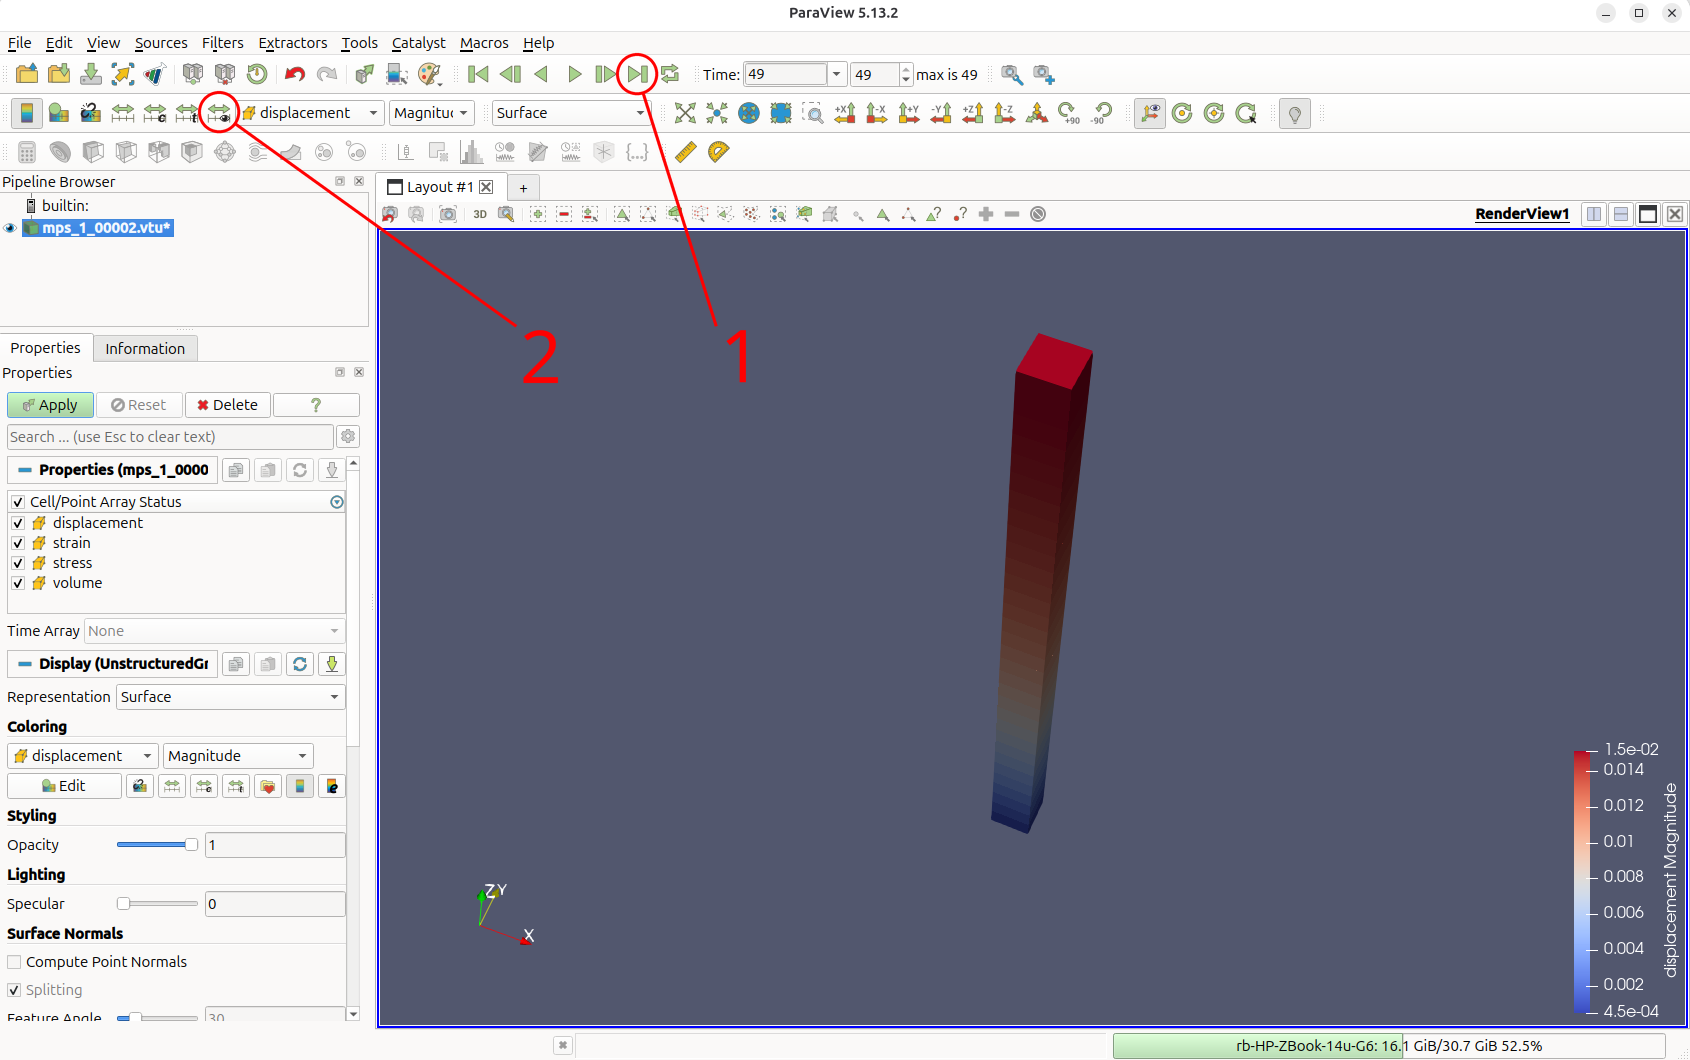
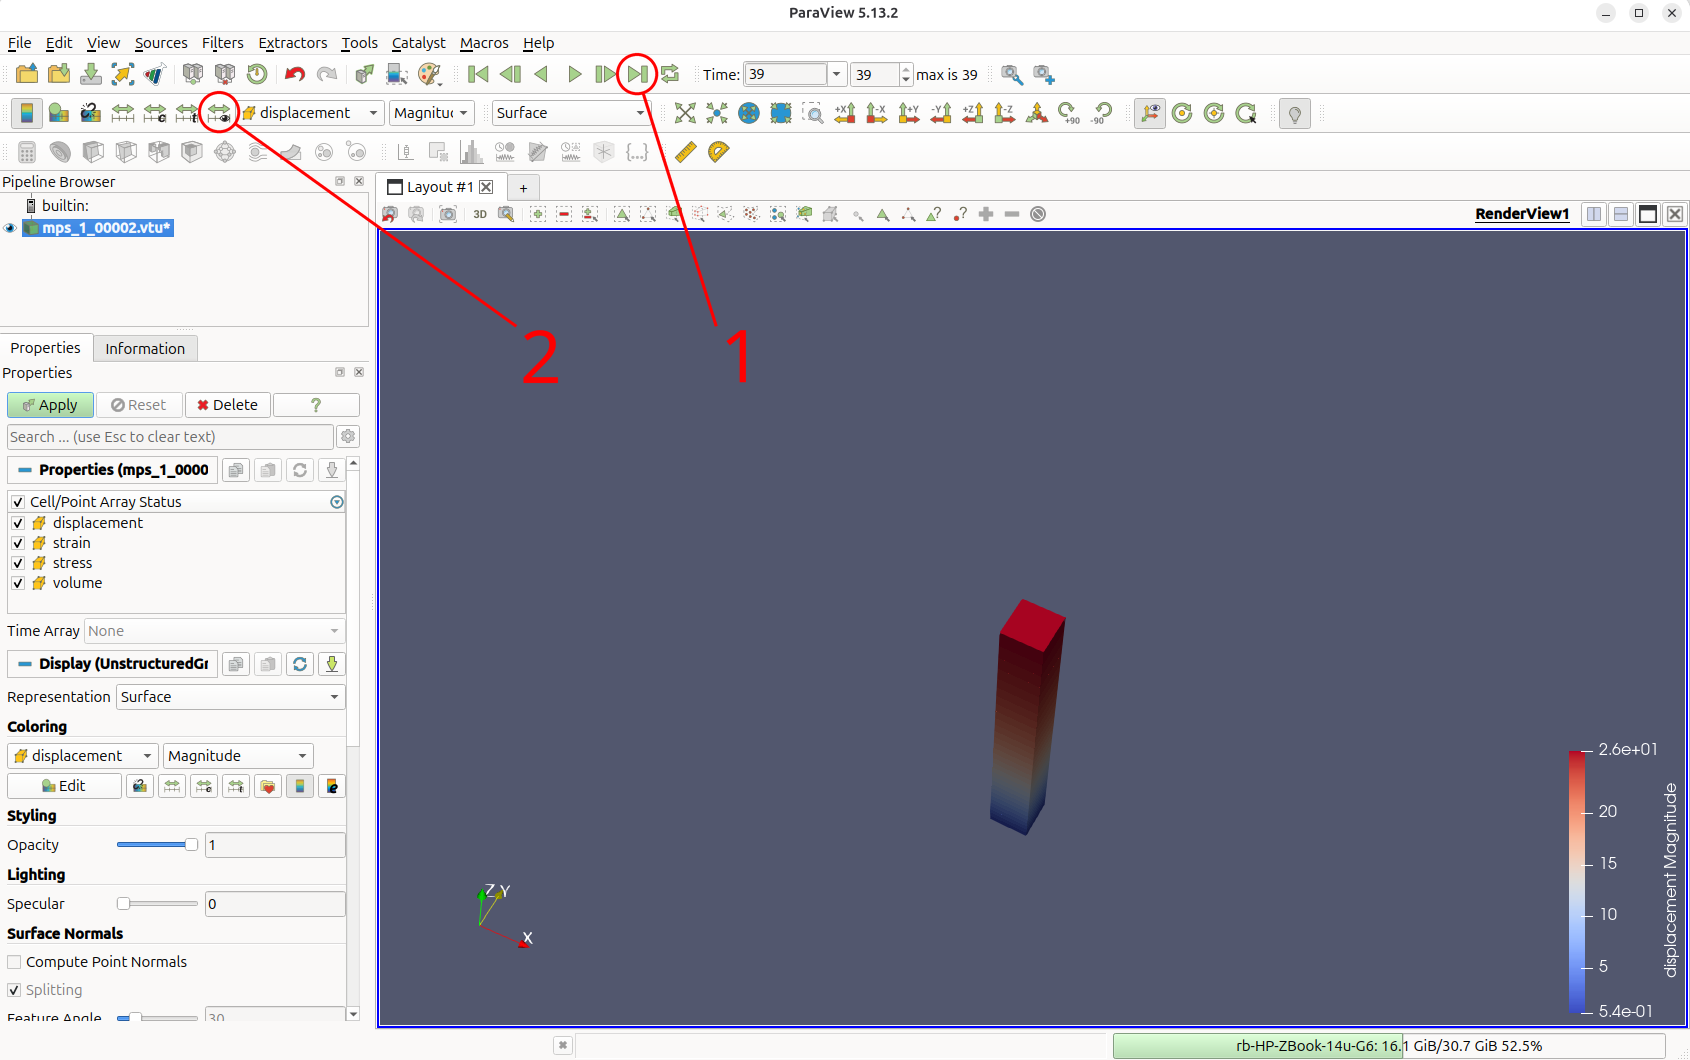
updates to tutorial 1

diff --git a/docs/javascripts/input_builder_templates.js b/docs/javascripts/input_builder_templates.js
@@ -10,12 +10,12 @@ window.MPM3S_TEMPLATES = [
     "gravity": [
      0.0,
      0.0,
-     -9.81
+     -10.0
     ]
    },
    "material points": {
     "extra capacity": 1.2,
-    "element size": 0.05,
+    "element size": 3.125,
     "number of material points per element 1": 2,
     "material size": {
      "min": [
@@ -23,18 +23,18 @@ window.MPM3S_TEMPLATES = [
       0.0
      ],
      "max": [
-      0.05,
-      0.05
+      3.125,
+      3.125
      ]
     },
     "layers": [
      {
-      "thickness": 0.8,
+      "thickness": 50.0,
       "material": {
        "type": "elastic",
        "E": 1.0e4,
        "nu": 0.0,
-       "density": 50.0
+       "density": 80.0
       }
      }
     ]
@@ -46,7 +46,7 @@ window.MPM3S_TEMPLATES = [
    "analysis": [
     {
      "type": "static",
-     "load steps": 50,
+     "load steps": 40,
      "load": "gravity ramp",
      "rigid bodies": "off",
      "boundary conditions": {

diff --git a/docs/img/Tutorial_1/column_setup.tex b/docs/img/Tutorial_1/column_setup.tex
@@ -1,6 +1,6 @@
 % Self-weight column (Tutorial 1): background mesh and GIMP domains, in the
-% style of GIMP_example2.png. The column is 0.05 x 0.05 x 0.8 m: 16 elements of
-% size h = 0.05 m, each holding a 2 x 2 x 2 grid of GIMPs. Only the bottom two
+% style of GIMP_example2.png. The column is 3.125 x 3.125 x 50 m: 16 elements of
+% size h = 3.125 m, each holding a 2 x 2 x 2 grid of GIMPs. Only the bottom two
 % elements and the top element are drawn; the dots between them stand for the
 % 13 elements left out.
 % Build: pdflatex column_setup.tex
@@ -65,7 +65,7 @@
   \draw[dimline, {Latex[length=5pt]}-] (-0.4,0,0) -- (-0.4,0,2.1);
   \draw[dimline, -{Latex[length=5pt]}] (-0.4,0,3.1) -- (-0.4,0,\ztop);
   \gapdots{dimpurple}{-0.4}{0}
-  \node[left=3pt, font=\sffamily] at (-0.4,0,2.6) {0.8 m};
+  \node[left=3pt, font=\sffamily] at (-0.4,0,2.6) {50 m};
   \draw[dim] (0,0,-0.35) -- node[below=1pt] {$h$} (1,0,-0.35);}
 % the support: the visible faces of the elements drawn
 \newcommand{\supportblock}[2]{%

diff --git a/docs/docs/TutorialProblems/Tutorial_1.md b/docs/docs/TutorialProblems/Tutorial_1.md
@@ -44,13 +44,13 @@ $$
 \sigma_{zz} = -\rho\, g\, (L - z_p),
 $$
 
-where $\rho$ is the density, $g = 9.81$ m/s$^2$ is the acceleration due to gravity, $L = 0.8$ m is the initial height of the column and $z_p$ is the initial height of the material point. Stress is tension positive, so the column is in compression. Because Poisson's ratio is zero and the sides of the column are on rollers, the cross-section does not change and this Cauchy stress calculation is true for any magnitude of deformation.
+where $\rho$ is the density, $g = 10$ m/s$^2$ is the acceleration due to gravity, $L = 50$ m is the initial height of the column and $z_p$ is the initial height of the material point. Stress is tension positive, so the column is in compression. Because Poisson's ratio is zero and the sides of the column are on rollers, the cross-section does not change and this Cauchy stress calculation is true for any magnitude of deformation.
 
-The column is $0.05 \times 0.05 \times 0.8$ m, made of a homogeneous Hencky elastic material with Poisson's ratio $\nu = 0$ and density $\rho = 50$ kg/m$^3$. The Young's modulus is $E = 10^4$ Pa, which gives a reasonable deformation.
+The column is $3.125 \times 3.125 \times 50$ m, made of a homogeneous Hencky elastic material with Poisson's ratio $\nu = 0$ and density $\rho = 80$ kg/m$^3$. The Young's modulus is $E = 10^4$ Pa, which gives a large deformation: the column shortens to under half its height. These are the height, material and gravity of the column example in [AMPLE](https://github.com/wmcoombs/AMPLE-m).
 
-The column is divided into 16 elements of $0.05$ m, each filled with a $2 \times 2 \times 2$ grid of GIMPs - 128 in total. Gravity is applied gradually over 50 load steps, each solved by a Newton-Raphson scheme.
+The column is divided into 16 elements of $3.125$ m, each filled with a $2 \times 2 \times 2$ grid of GIMPs - 128 in total. Gravity is applied gradually over 40 load steps, each solved by a Newton-Raphson scheme.
 
-![The bottom two elements and the top element of the column; the dots stand for the 13 elements in between. (a) The background mesh, with element size $h = 0.05$ m, and (b) the $2 \times 2 \times 2$ grid of GIMP domains in each element.](../../img/Tutorial_1/column_setup.png){ #fig-column-setup width="50%" }
+![The bottom two elements and the top element of the column; the dots stand for the 13 elements in between. (a) The background mesh, with element size $h = 3.125$ m, and (b) the $2 \times 2 \times 2$ grid of GIMP domains in each element.](../../img/Tutorial_1/column_setup.png){ #fig-column-setup width="50%" }
 
 The simulation is configured through a single JSON object - a human-readable, editable text file. The complete file for this problem can be found [here](Tutorial_1_input_data.md), and every key is described on the [`input_data.json` file format](../UsingTheSoftware/InputFormat/index.md) page.
 
@@ -89,7 +89,7 @@ The simulation is configured through a single JSON object - a human-readable, ed
 
 ### Domain
 
-- The background mesh is a cube, sized automatically to hold the column plus the same height of empty space above it: here a cube of side $1.6$ m ([domain](../UsingTheSoftware/InputFormat/domain.md)).
+- The background mesh is a cube, sized automatically to hold the column plus the same height of empty space above it: here a cube of side $100$ m ([domain](../UsingTheSoftware/InputFormat/domain.md)).
 - Gravity acts in $-z$.
 
 </div>
@@ -98,7 +98,7 @@ The simulation is configured through a single JSON object - a human-readable, ed
 
 ```json
 "domain": {
-    "gravity": [0.0, 0.0, -9.81]
+    "gravity": [0.0, 0.0, -10.0]
 },
 ```
 
@@ -112,8 +112,8 @@ The simulation is configured through a single JSON object - a human-readable, ed
 
 ### Material points
 
-- One layer, $0.8$ m thick, on a $0.05 \times 0.05$ m footprint ([material points](../UsingTheSoftware/InputFormat/material_points.md)).
-- `"element size"` sets the background elements to $0.05$ m.
+- One layer, $50$ m thick, on a $3.125 \times 3.125$ m footprint ([material points](../UsingTheSoftware/InputFormat/material_points.md)).
+- `"element size"` sets the background elements to $3.125$ m.
 - `"number of material points per element 1": 2` places a $2 \times 2 \times 2$ grid of GIMPs in each element.
 - The material is the Hencky elastic model, with the parameters from the [Problem summary](#problem-summary).
 - `"extra capacity"` reserves spare storage for material points created by mesh refinement; there is no refinement here, but the key is still required.
@@ -125,13 +125,13 @@ The simulation is configured through a single JSON object - a human-readable, ed
 ```json
 "material points": {
     "extra capacity": 1.2,
-    "element size": 0.05,
+    "element size": 3.125,
     "number of material points per element 1": 2,
-    "material size": { "min": [0.0, 0.0], "max": [0.05, 0.05] },
+    "material size": { "min": [0.0, 0.0], "max": [3.125, 3.125] },
     "layers": [
         {
-            "thickness": 0.8,
-            "material": { "type": "elastic", "E": 1.0e4, "nu": 0.0, "density": 50.0 }
+            "thickness": 50.0,
+            "material": { "type": "elastic", "E": 1.0e4, "nu": 0.0, "density": 80.0 }
         }
     ]
 },
@@ -173,7 +173,7 @@ The simulation is configured through a single JSON object - a human-readable, ed
 ### Analysis
 
 - A single static stage ([analysis stages](../UsingTheSoftware/InputFormat/analysis.md)).
-- `"load": "gravity ramp"` increases gravity from zero to its full value over the 50 load steps.
+- `"load": "gravity ramp"` increases gravity from zero to its full value over the 40 load steps.
 - `"rigid bodies": "off"`, as there are none.
 - Rollers on the four sides ($x$ and $y$ `"min"` and `"max"`) and a fixed base ([boundary conditions](../UsingTheSoftware/InputFormat/analysis.md#boundary-conditions)).
 - The top is left free; the `"max"` $z$ face lies at twice the column height, in the empty space above the column, so it never touches the material.
@@ -186,7 +186,7 @@ The simulation is configured through a single JSON object - a human-readable, ed
 "analysis": [
     {
         "type": "static",
-        "load steps": 50,
+        "load steps": 40,
         "load": "gravity ramp",
         "rigid bodies": "off",
         "boundary conditions": { "min": ["roller", "roller", "fixed"], "max": ["roller", "roller", "free"] }
@@ -339,7 +339,7 @@ Julia is now running in the `MPM3S` folder and MPM3S loaded. The JSON file for t
 ```
 MPM3S.non_linear_solve("validation_data_and_jsons/input_data_gravity_column.json");
 ```
-This reads the input file, steps through the 50 load steps and writes the VTK and CSV output as it goes.
+This reads the input file, steps through the 40 load steps and writes the VTK and CSV output as it goes.
 
 #### Reading the output
 
@@ -348,12 +348,12 @@ MPM3S prints a single progress line, redrawn in place after every step; in a log
 - `stage 1/1` - the current stage and the number of stages.
 - the bar and `100.0%` - progress through the stage.
 - `t 1.0/1.0` - the load fraction reached in a static stage (or the time in a dynamic stage), out of its final value.
-- `step 51` - the step counter. It starts at 1 and counts every converged step of the analysis; it is also the number in the output file names.
-- `Δt 0.02` - the current increment, here $1/50$ of the load.
+- `step 41` - the step counter. It starts at 1 and counts every converged step of the analysis; it is also the number in the output file names.
+- `Δt 0.025` - the current increment, here $1/40$ of the load.
 - `NR 3` - the Newton-Raphson iterations used by the last step.
 - `cuts 0` - steps that did not converge and were retried with half the increment.
 - `del 0` - material points deleted because they became too distorted or isolated.
-- `N 299` - the number of nodes in the background mesh.
+- `N 201` - the number of nodes in the background mesh.
 
 In dynamic analyses a `P2G-fail` count is added if a velocity projection fails to converge.
 
@@ -365,7 +365,7 @@ In dynamic analyses a `P2G-fail` count is added if a velocity projection fails t
 
 ```console
 julia> MPM3S.non_linear_solve("validation_data_and_jsons/input_data_gravity_column.json");
-stage 1/1 ████████████ 100.0% t 1.0/1.0 step 51 Δt 0.02 NR 3 cuts 0 del 0 N 299
+stage 1/1 ████████████ 100.0% t 1.0/1.0 step 41 Δt 0.025 NR 3 cuts 0 del 0 N 201
 ```
 
 </div>
@@ -376,7 +376,7 @@ stage 1/1 ████████████ 100.0% t 1.0/1.0 step 51 Δt 0.02
 
 ## Viewing the results
 
-The results are written as the simulation runs, so you do not need to wait until it has finished to view them. The VTK files are in `vtk_column` and the CSV files in `csv_column`, one file per load step, numbered from `00002` to `00051`. The `1` in `mps_1_...` is the layer number.
+The results are written as the simulation runs, so you do not need to wait until it has finished to view them. The VTK files are in `vtk_column` and the CSV files in `csv_column`, one file per load step, numbered from `00002` to `00041`. The `1` in `mps_1_...` is the layer number.
 
 ### Visualising the output in ParaView
 
@@ -428,7 +428,7 @@ The output files can be opened in [ParaView](https://www.paraview.org/) to inspe
 
 <div class="walkthrough" markdown>
 <div markdown>
-**5. Advance to the final step.** Click the *Go to Last* button (`▶|`) (1) in the time toolbar, then *Rescale to Visible Range* (2) in the colour-map toolbar so the colour scale matches the deformed column. The column has shortened from $0.8$ m to about $0.785$ m, so the top has moved down by about $0.015$ m.
+**5. Advance to the final step.** Click the *Go to Last* button (`▶|`) (1) in the time toolbar, then *Rescale to Visible Range* (2) in the colour-map toolbar so the colour scale matches the deformed column. The column has shortened from $50$ m to about $24$ m, so the top has moved down by about $26$ m.
 </div>
 <div markdown>
 ![The deformed column at the final load step, coloured by displacement.](../../img/Tutorial_1/column_v2_1.png){ #fig-paraview-5 }
@@ -446,7 +446,7 @@ The output files can be opened in [ParaView](https://www.paraview.org/) to inspe
 
 <div class="walkthrough" markdown>
 <div markdown>
-**7. Look at the GIMP domains.** Change the *Representation* to *Surface With Edges* (1) and zoom in on the base and the top of the column. With `"domain update": "stretch"` the GIMPs near the base are squashed by about $4\%$ of their original height, while those near the top are barely deformed.
+**7. Look at the GIMP domains.** Change the *Representation* to *Surface With Edges* (1) and zoom in on the base and the top of the column. With `"domain update": "stretch"` the GIMPs near the base are squashed to about $30\%$ of their original height, while those near the top have shortened by only about $6\%$.
 </div>
 <div markdown>
 ![The column drawn with Surface With Edges, coloured by vertical stress.](../../img/Tutorial_1/column_v2_3.png){ #fig-paraview-7 }
@@ -455,21 +455,21 @@ The output files can be opened in [ParaView](https://www.paraview.org/) to inspe
 
 ## Analysing the stress variation with height
 
-`csv_column` holds one CSV file per load step. The first line of each file is the load fraction, `time`, and the second line holds the column headers; after that there is one row per GIMP. The final step, `mps_1_00051.csv`, starts:
+`csv_column` holds one CSV file per load step. The first line of each file is the load fraction, `time`, and the second line holds the column headers; after that there is one row per GIMP. The final step, `mps_1_00041.csv`, starts:
 
 ```text
 time,1.0000000000000004
 initial position_x,initial position_y,initial position_z,position_x,position_y,position_z,stress_xx,stress_yy,stress_zz,stress_xy,stress_yz,stress_xz
-0.0125,0.0125,0.0125,0.0125,0.0125,0.012049772208144434,0.0,0.0,-380.53508196098755,0.0,0.0,0.0
-0.0125,0.0125,0.037500000000000006,0.0125,0.0125,0.03614931662443334,0.0,0.0,-380.53508196098755,0.0,0.0,0.0
-0.0125,0.0125,0.0625,0.0125,0.0125,0.06027504228355748,0.0,0.0,-356.3835934261951,0.0,0.0,0.0
+0.78125,0.78125,0.78125,0.78125,0.78125,0.2403573773453606,0.0,0.0,-38314.3115766303,0.0,0.0,0.0
+0.78125,0.78125,2.34375,0.78125,0.78125,0.7210721320360816,0.0,0.0,-38314.311576630294,0.0,0.0,0.0
+0.78125,0.78125,3.90625,0.78125,0.78125,1.204539179340215,-1.777267913332324e-12,-1.777267913332324e-12,-37256.332724039145,-0.0,-0.0,-0.0
 --- many more rows of data ---
 ```
 
 `initial position_z` is $z_p$ in the analytical solution, `position_z` is the GIMP's current height, and `stress_zz` is the vertical Cauchy stress in Pa.
 
 !!! note "Floating-point spellings in the raw CSV"
-    Values such as `1.0000000000000004` and `0.037500000000000006` are the exact binary representations Julia stores for `1.0` and `0.0375`, and the trailing digits of the stresses are floating-point noise.
+    Values such as `1.0000000000000004` are the exact binary representation Julia stores for `1.0`, the trailing digits of the stresses are floating-point noise, and horizontal stresses such as `-1.777267913332324e-12` are zero to round-off.
 
 The short Julia script below plots the stresses from the final step against the analytical solution from the [Problem summary](#problem-summary). You can run it in the same Julia session straight after the analysis, either by copying it into the REPL or by saving it as `plot_stress.jl` in the `MPM3S` folder and running `include("plot_stress.jl")`. It needs [Plots](https://docs.juliaplots.org/); `DelimitedFiles` comes with Julia.
 
@@ -485,13 +485,13 @@ The commands to run the plot are:
 using DelimitedFiles, Plots
 
 # the final output step of the column; skip the "time" line, then read the header
-data, header = readdlm("csv_column/mps_1_00051.csv", ',', Float64; skipstart=1, header=true)
+data, header = readdlm("csv_column/mps_1_00041.csv", ',', Float64; skipstart=1, header=true)
 column(name) = data[:, findfirst(==(name), vec(header))]
 z0  = column("initial position_z")
 szz = column("stress_zz")
 
 # analytical vertical stress
-ρ, g, L = 50.0, 9.81, 0.8
+ρ, g, L = 80.0, 10.0, 50.0
 σ(z) = -ρ * g * (L - z)
 z = range(0.0, L, length=100)
 
@@ -501,6 +501,6 @@ plot!(-σ.(z), z, label="analytical")
 
 ![Vertical compressive stress at the GIMPs after the final load step, plotted against their initial height, compared with the analytical solution.](../../img/Tutorial_1/column_analytical_stress.png){ #fig-column-stress width="40%" }
 
-The numerical stresses agree with the analytical solution to within 2% of the stress at the base ($392.4$ Pa). The two GIMPs in each element fall either side of the analytical line, and the differences are largest near the base. 
+The numerical stresses agree with the analytical solution to within 3% of the stress at the base ($40$ kPa). The differences are largest in the bottom element, where the column is most compressed, and in the top element.
 
-To see how the accuracy depends on the mesh, halve `"element size"` in [Material points](#material-points) to `0.025` and run the problem again.
+To see how the accuracy depends on the mesh, halve `"element size"` in [Material points](#material-points) to `1.5625` and run the problem again.

diff --git a/docs/docs/TutorialProblems/Tutorial_1_input_data.md b/docs/docs/TutorialProblems/Tutorial_1_input_data.md
@@ -9,18 +9,18 @@ The complete `input_data_gravity_column.json` for [Tutorial 1](Tutorial_1.md), a
     "domain update": "stretch", // (2)!
 
     "domain": { // (3)!
-        "gravity": [0.0, 0.0, -9.81]
+        "gravity": [0.0, 0.0, -10.0]
     },
 
     "material points": { // (4)!
         "extra capacity": 1.2,
-        "element size": 0.05,
+        "element size": 3.125,
         "number of material points per element 1": 2,
-        "material size": { "min": [0.0, 0.0], "max": [0.05, 0.05] },
+        "material size": { "min": [0.0, 0.0], "max": [3.125, 3.125] },
         "layers": [
             {
-                "thickness": 0.8,
-                "material": { "type": "elastic", "E": 1.0e4, "nu": 0.0, "density": 50.0 }
+                "thickness": 50.0,
+                "material": { "type": "elastic", "E": 1.0e4, "nu": 0.0, "density": 80.0 }
             }
         ]
     },
@@ -34,7 +34,7 @@ The complete `input_data_gravity_column.json` for [Tutorial 1](Tutorial_1.md), a
     "analysis": [ // (7)!
         {
             "type": "static",
-            "load steps": 50,
+            "load steps": 40,
             "load": "gravity ramp",
             "rigid bodies": "off",
             "boundary conditions": { "min": ["roller", "roller", "fixed"], "max": ["roller", "roller", "free"] }
@@ -67,9 +67,9 @@ The complete `input_data_gravity_column.json` for [Tutorial 1](Tutorial_1.md), a
 1.  Runs on the CPU, which is plenty for a problem this small. [Machine →](Tutorial_1.md#machine) · [GPU →](../UsingTheSoftware/InputFormat/gpu.md)
 2.  Lets the GIMP domains near the base shrink as the column is compressed. [Machine →](Tutorial_1.md#machine) · [Domain update →](../UsingTheSoftware/InputFormat/material_points.md#domain-update)
 3.  Gravity in $-z$; the background mesh is sized automatically to hold the column. [Domain →](Tutorial_1.md#domain) · [Domain →](../UsingTheSoftware/InputFormat/domain.md)
-4.  One $0.8$ m elastic layer on a $0.05 \times 0.05$ m footprint: $0.05$ m elements, each with $2 \times 2 \times 2$ GIMPs. [Material points →](Tutorial_1.md#material-points) · [Material points →](../UsingTheSoftware/InputFormat/material_points.md)
+4.  One $50$ m elastic layer on a $3.125 \times 3.125$ m footprint: $3.125$ m elements, each with $2 \times 2 \times 2$ GIMPs. [Material points →](Tutorial_1.md#material-points) · [Material points →](../UsingTheSoftware/InputFormat/material_points.md)
 5.  There are no rigid bodies. [Rigid bodies and contact →](Tutorial_1.md#rigid-bodies-and-contact) · [Rigid bodies →](../UsingTheSoftware/InputFormat/rigid_bodies.md)
 6.  Required even with no bodies; it has no effect here. [Rigid bodies and contact →](Tutorial_1.md#rigid-bodies-and-contact) · [Contact →](../UsingTheSoftware/InputFormat/contact.md)
-7.  One static stage: gravity ramped up over 50 load steps, rollers on the sides, a fixed base and a free top. [Analysis →](Tutorial_1.md#analysis) · [Analysis stages →](../UsingTheSoftware/InputFormat/analysis.md)
+7.  One static stage: gravity ramped up over 40 load steps, rollers on the sides, a fixed base and a free top. [Analysis →](Tutorial_1.md#analysis) · [Analysis stages →](../UsingTheSoftware/InputFormat/analysis.md)
 8.  Tolerance $10^{-6}$ and 20 iterations; ghost stabilisation is off, as the column fills its elements. [Solver →](Tutorial_1.md#solver) · [Solver →](../UsingTheSoftware/InputFormat/solver.md)
 9.  VTK and CSV files at every load step. [Output →](Tutorial_1.md#output) · [Output →](../UsingTheSoftware/InputFormat/output.md)

diff --git a/docs/docs/UsingTheSoftware/InputFormat/domain.md b/docs/docs/UsingTheSoftware/InputFormat/domain.md
@@ -25,7 +25,7 @@ The background mesh is sized automatically from the [material points](material_p
 - The **domain box** is where the boundary conditions act. It spans the soil's footprint in $x$ and $y$ (`"material size"` `"max"`) and **twice the total layer thickness in $z$**, each rounded up to whole base elements.
 - The soil fills the bottom half of the box. Its surface is the total layer thickness rounded up to a whole row of material points (base element $\div$ `"number of material points per element 1"`), and the bottom layer takes the extra. The top half is empty space for the surface to move into and for rigid bodies to start in.
 - The mesh itself is an octree **cube** of side base element $\times\, 2^n$: the smallest that holds the box's longest side. Any part of the cube outside the box holds no soil.
-- For example, [Tutorial 1](../../TutorialProblems/Tutorial_1.md) has a $0.05 \times 0.05$ m footprint, a 0.8 m layer and 0.05 m elements. Its box is $0.05 \times 0.05 \times 1.6$ m, and the cube is 1.6 m ($32 = 2^5$ elements) on a side. A 1.0 m layer would give a 2.0 m box (40 elements), rounded up to a 3.2 m cube (64 elements).
+- For example, [Tutorial 1](../../TutorialProblems/Tutorial_1.md) has a $3.125 \times 3.125$ m footprint, a 50 m layer and 3.125 m elements. Its box is $3.125 \times 3.125 \times 100$ m, and the cube is 100 m ($32 = 2^5$ elements) on a side. A 62.5 m layer would give a 125 m box (40 elements), rounded up to a 200 m cube (64 elements).
 - The element sizes, and the rounding of the material domain to fit them, are set out in [how element sizes set the mesh](material_points.md#how-element-sizes-set-the-mesh).
 
 To give a rigid body room to travel, widen the soil's footprint, `"material size"` `"max"`, which moves the side boundaries with it.
